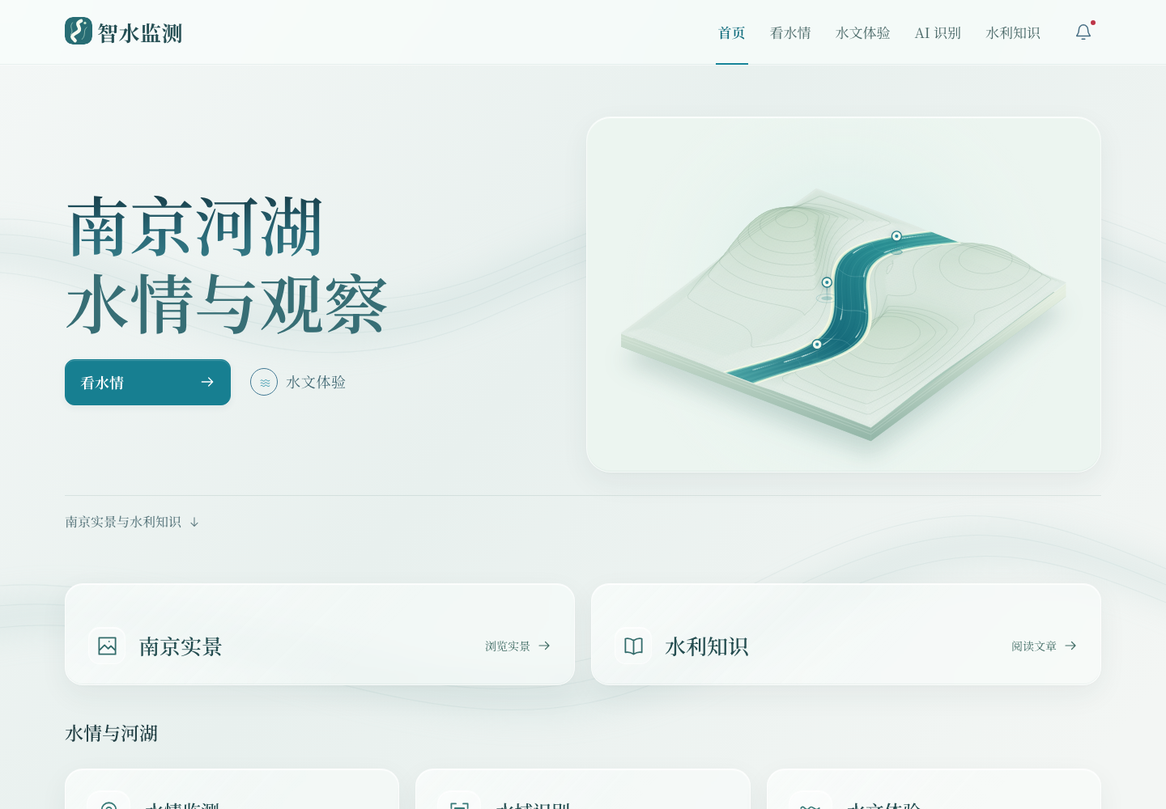
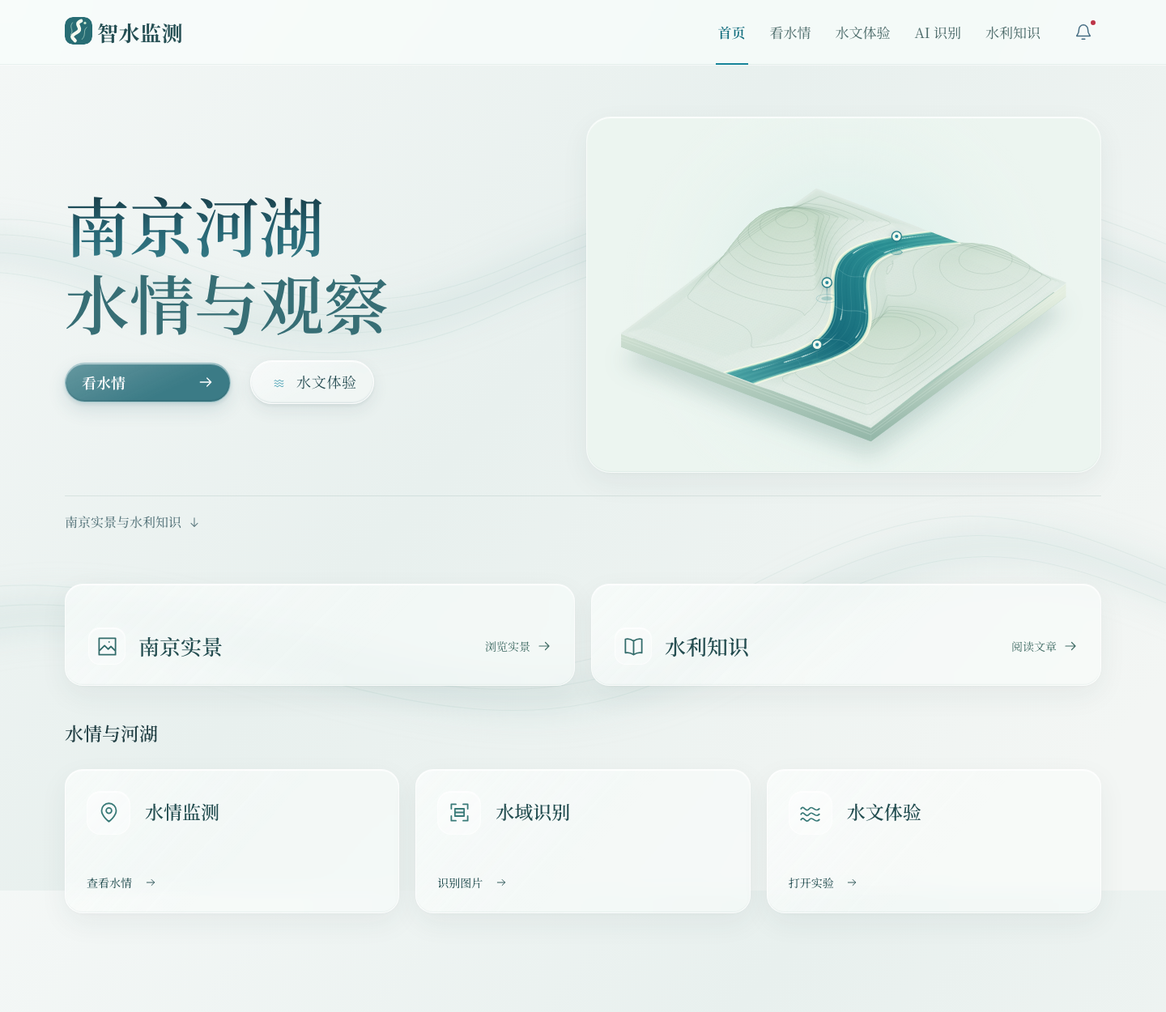
Add optical glass buttons and native slider feedback

diff --git a/dist/assets/liquid-controls.css b/dist/assets/liquid-controls.css
@@ -1,0 +1,83 @@
+/* Small optical surfaces: native input, clear foreground, refracted background. */
+:root{--control-glass:rgb(255 255 255 / 34%);--control-shadow:0 8px 20px #254b4c16,0 2px 4px #254b4c14,inset 0 1px 1px #fffffff0,inset 0 -1px 2px #456e7126;--control-filter:blur(3px) saturate(125%)}
+:root [data-glass-control][data-glass-control]{
+ isolation:isolate;border:1px solid #ffffffc7;border-radius:999px;
+ background:linear-gradient(155deg,#ffffff75,transparent 56%),var(--control-glass);color:#294f55;
+ box-shadow:var(--control-shadow);-webkit-backdrop-filter:var(--liquid-lens-filter,var(--control-filter));backdrop-filter:var(--liquid-lens-filter,var(--control-filter));
+ font-family:var(--font);touch-action:manipulation;transition:transform 160ms var(--ease-out);
+}
+[data-glass-position="relative"]{position:relative}
+:root [data-glass-control]:is(.btn,.hero-secondary){min-height:44px;padding:10px 20px}
+:root [data-glass-control].hero-secondary{gap:9px}.hero-secondary[data-glass-control] .play-orbit{width:27px;height:27px;border:0;background:transparent}
+:root [data-glass-control]:is(.primary,.playback-button),:root .detail-card-footer .btn[data-glass-control]{
+ background:linear-gradient(155deg,#ffffff36,transparent 65%),rgb(30 104 117 / 86%);color:#fff;border-color:#f0ffff80;
+ box-shadow:0 9px 22px #21586725,0 2px 5px #21586720,inset 0 1px 1px #ffffffa8,inset 0 -1px 2px #14363d47;
+}
+.btn.primary.hero-primary[data-glass-control]{background:linear-gradient(155deg,#ffffff36,transparent 65%),rgb(30 104 117 / 86%)!important;border-color:#f0ffff80!important;color:#fff!important}
+:root .rain-presets [data-glass-control]{font-size:18px;min-height:48px;padding:10px 12px;gap:6px}
+:root :is(.rain-presets,.lab-rain-presets,.monitor-record-filters,.vision-view-switch,.atlas-controls) [data-glass-control][aria-pressed="true"],
+:root [data-glass-control][aria-selected="true"],:root .segmented [data-glass-control].active,:root .filter-tabs [data-glass-control].active{
+ background:linear-gradient(155deg,#ffffffa6,transparent 70%),#d4e9e4a6;border-color:#7bafa9b3;color:#225e63;
+ box-shadow:0 5px 12px #2c5d5a17,inset 0 1px 1px #fff,inset 0 -2px 2px #327e7b20;
+}
+:root .monitor-tool-tabs [data-glass-control]{border-radius:999px}
+:root [data-glass-control].btn.text{box-shadow:inset 0 1px 1px #ffffffad,0 2px 6px #254b4c0a;background:#ffffff26}
+/* The colour fringe stays at the edge; the label never passes through a filter. */
+[data-glass-control]::before{content:'';position:absolute;inset:0;border-radius:inherit;z-index:-1;pointer-events:none;background:radial-gradient(ellipse at var(--press-x,35%) var(--press-y,20%),#ffffffad,transparent 64%);opacity:0;transition:opacity 160ms var(--ease-out)}
+[data-glass-control]::after,[data-glass-thumb]::before{
+ content:'';position:absolute;inset:-1px;padding:2px;border-radius:inherit;pointer-events:none;
+ background:conic-gradient(from 25deg at var(--press-x,50%) 50%,#8adcf5,#b1c2ff 18%,#e6b7d6 34%,#f5daaf 49%,#c2eee2 67%,#7ecde7 83%,#8adcf5);
+ -webkit-mask:linear-gradient(#fff 0 0) content-box,linear-gradient(#fff 0 0);-webkit-mask-composite:xor;mask:linear-gradient(#fff 0 0) content-box,linear-gradient(#fff 0 0);mask-composite:exclude;
+ opacity:0;transition:opacity 160ms var(--ease-out);
+}
+:root [data-glass-control][data-glass-pressed]{transform:scale(.97);box-shadow:0 3px 9px #254b4c23,inset 0 1px 2px #fff,inset 0 -2px 5px #346f7b35}
+[data-glass-control][data-glass-pressed]::before{opacity:.7}
+[data-glass-pressed]::after,[data-glass-thumb][data-glass-pressed]::before{opacity:.85}
+:root [data-glass-control][data-glass-keyboard]{transform:none;transition:none}
+:root [data-glass-control]:focus-visible{outline:2px solid #277a8d;outline-offset:4px}
+:root [data-glass-control]:disabled,:root [data-glass-control][aria-disabled="true"]{opacity:.45;cursor:default;transform:none;box-shadow:inset 0 1px 0 #fff8;-webkit-backdrop-filter:none;backdrop-filter:none}
+@media(hover:hover) and (pointer:fine){:root [data-glass-control]:not(:disabled):not([aria-disabled="true"]):not([data-glass-pressed]):hover{box-shadow:0 10px 24px #254b4c22,0 2px 5px #254b4c18,inset 0 1px 1px #fff,inset 0 -1px 2px #456e7126}}
+/* A native range is the hit target and keyboard control; its optical thumb is decorative. */
+.liquid-range{display:block;position:relative;isolation:isolate;min-width:0;height:48px;margin:8px 0 2px}
+.liquid-range>input[type="range"]{position:absolute;z-index:2;inset:0;display:block;width:100%!important;height:48px!important;min-height:48px!important;margin:0!important;padding:0!important;border:0;border-radius:24px;background:transparent;-webkit-appearance:none;appearance:none;cursor:grab;touch-action:pan-y;box-shadow:none}
+.liquid-range>input[type="range"]::-webkit-slider-runnable-track{height:8px;background:transparent;border:0}
+.liquid-range>input[type="range"]::-webkit-slider-thumb{-webkit-appearance:none;appearance:none;width:40px;height:30px;margin-top:-11px;border:0;background:transparent;box-shadow:none;opacity:0}
+.liquid-range>input[type="range"]::-moz-range-track{height:8px;background:transparent;border:0}
+.liquid-range>input[type="range"]::-moz-range-progress{background:transparent}
+.liquid-range>input[type="range"]::-moz-range-thumb{width:40px;height:30px;border:0;background:transparent;box-shadow:none;opacity:0}
+.liquid-range-rail{position:absolute;left:20px;right:20px;top:50%;height:8px;transform:translateY(-50%);border:1px solid #7f9f9e30;border-radius:999px;background:#628e8e20;box-shadow:inset 0 1px 3px #254b4c1c,0 1px 0 #ffffffbd;pointer-events:none}
+.liquid-range-fill{position:absolute;inset:-1px;border-radius:inherit;background:linear-gradient(90deg,#367d8b,#6dacae);transform:scaleX(var(--range-ratio,0));transform-origin:left center;box-shadow:inset 0 1px 1px #ffffff66}
+.liquid-range-thumb{position:absolute;top:50%;left:var(--range-progress,0%);width:40px;height:30px;transform:translate(-50%,-50%);border-radius:999px}
+.liquid-range-thumb,.gate-slider-thumb[data-glass-thumb]{border:1px solid #ffffffe6;background:linear-gradient(145deg,#ffffff94,#ffffff24 55%,#a5d9dc24);box-shadow:0 6px 14px #2c4b572e,0 2px 4px #2c4b5726,inset 0 1px 1px #fff,inset 0 -1px 2px #275f6b30;-webkit-backdrop-filter:var(--liquid-lens-filter,var(--control-filter));backdrop-filter:var(--liquid-lens-filter,var(--control-filter));transition:transform 160ms var(--ease-out)}
+.liquid-range-thumb::after{content:'';position:absolute;left:25%;right:25%;top:6px;height:1px;background:#ffffffdf;box-shadow:0 14px 0 #4a8f9c26;pointer-events:none}
+.gate-slider-rail{height:8px;border:1px solid #7f9f9e30;background:#628e8e20;box-shadow:inset 0 1px 3px #254b4c1c,0 1px 0 #ffffffbd}
+.gate-slider-fill{background:linear-gradient(90deg,#367d8b,#6dacae);box-shadow:inset 0 1px 1px #ffffff66}
+.gate-slider-thumb[data-glass-thumb]{width:52px;height:42px;border-radius:999px}
+.gate-slider-thumb[data-glass-thumb]::after{height:17px;width:3px;background:#356b756b}
+[data-glass-range][data-glass-dragging] [data-glass-thumb]{transform:translate(-50%,-50%) scale(1.08);box-shadow:0 9px 20px #2c4b573b,0 2px 5px #2c4b5726,inset 0 1px 2px #fff,inset 0 -1px 3px #6ba9bb59}
+#sandbox-gate:active+.gate-slider-rail .gate-slider-thumb[data-glass-thumb]{transform:translate(-50%,-50%) scale(1.08)}
+.liquid-range>input[type="range"]:focus-visible{outline:2px solid #277a8d;outline-offset:2px}
+.liquid-range>input[type="range"]:active{cursor:grabbing}
+[data-glass-range][data-glass-disabled]{opacity:.42}
+[data-glass-range][data-glass-disabled] input{cursor:default}
+@media(max-width:560px){.monitor-console .rain-presets{grid-template-columns:repeat(2,minmax(0,1fr));gap:10px}.monitor-console .rain-presets .rain-preset-unit{font-size:12px}}
+@media(prefers-reduced-motion:reduce){:root [data-glass-control],.liquid-range-thumb,.gate-slider-thumb[data-glass-thumb]{transition:none}:root [data-glass-control][data-glass-pressed]{transform:none}[data-glass-range][data-glass-dragging] [data-glass-thumb],#sandbox-gate:active+.gate-slider-rail .gate-slider-thumb[data-glass-thumb]{transform:translate(-50%,-50%)}[data-glass-control]::before,[data-glass-control]::after,[data-glass-thumb]::before{transition:none}}
+@media(prefers-reduced-transparency:reduce),(prefers-contrast:more){
+ :root [data-glass-control][data-glass-control],.liquid-range-thumb,.gate-slider-thumb[data-glass-thumb]{background:#f5f8f7;border-color:#72938e;-webkit-backdrop-filter:none!important;backdrop-filter:none!important}
+ :root [data-glass-control]:is(.primary,.playback-button),.btn.primary.hero-primary[data-glass-control]{background:#286f76!important;color:#fff}
+ [data-glass-control]::before,[data-glass-control]::after,[data-glass-thumb]::before{display:none}
+}
+:is([data-glass-effects="off"],[data-glass-solid]) :is([data-glass-control],[data-glass-thumb]){-webkit-backdrop-filter:none!important;backdrop-filter:none!important;background-color:#f5f8f7}
+:is([data-glass-effects="off"],[data-glass-solid]) [data-glass-control]:is(.primary,.playback-button),:is([data-glass-effects="off"],[data-glass-solid]) .btn.primary.hero-primary[data-glass-control]{background:#286f76!important;color:#fff}
+:is([data-glass-effects="off"],[data-glass-solid]) :is([data-glass-control],[data-glass-thumb])::before,:is([data-glass-effects="off"],[data-glass-solid]) [data-glass-control]::after{display:none}
+@supports not ((backdrop-filter:blur(1px)) or (-webkit-backdrop-filter:blur(1px))){:root{--control-glass:#f5f8f7}.liquid-range-thumb,.gate-slider-thumb[data-glass-thumb]{background:#f5f8f7}[data-glass-control]::before,[data-glass-control]::after,[data-glass-thumb]::before{display:none}}
+@media(forced-colors:active){
+ :root [data-glass-control][data-glass-control]{background:ButtonFace!important;border-color:ButtonText!important;color:ButtonText!important;box-shadow:none!important;-webkit-backdrop-filter:none!important;backdrop-filter:none!important}
+ :root [data-glass-control][aria-pressed="true"],:root [data-glass-control][aria-selected="true"]{border-color:Highlight!important;outline:1px solid Highlight}
+ [data-glass-control]::before,[data-glass-control]::after,[data-glass-thumb]::before,.liquid-range-rail{display:none}
+ .liquid-range>input[type="range"]{-webkit-appearance:auto;appearance:auto;accent-color:Highlight}
+ .liquid-range>input[type="range"]::-webkit-slider-thumb{-webkit-appearance:auto;appearance:auto;opacity:1;background:ButtonText}
+ .liquid-range>input[type="range"]::-moz-range-thumb{opacity:1;background:ButtonText}
+ .liquid-range>input[type="range"]::-webkit-slider-runnable-track{background:CanvasText}
+ .liquid-range>input[type="range"]::-moz-range-track{background:CanvasText}
+}

diff --git a/dist/assets/liquid-glass.js b/dist/assets/liquid-glass.js
@@ -1,8 +1,8 @@
-/* Edge refraction for Chromium entry cards. Other engines keep the CSS glass material.
+/* Edge refraction for Chromium surfaces. Other engines keep the CSS glass material.
    The map encodes only a narrow rim; it never captures or filters foreground text. */
 (() => {
  'use strict';
- const root=document.documentElement,selector='.home-discovery-card,.home-task-grid>a,.monitor-analysis-link';
+ const root=document.documentElement,selector='.home-discovery-card,.home-task-grid>a,.monitor-analysis-link,[data-glass-control],[data-glass-thumb]';
  const reduce=matchMedia('(prefers-reduced-transparency: reduce)'),contrast=matchMedia('(prefers-contrast: more)'),forced=matchMedia('(forced-colors: active)');
  const capable=/Chrome|Chromium|Edg\//.test(navigator.userAgent)&&CSS.supports('backdrop-filter','url("#glass-probe")');
  const ns='http://www.w3.org/2000/svg',entries=new Map();let serial=0,frame=0,defs,svg;
@@ -19,29 +19,49 @@
   }
   context.putImageData(pixels,0,0);return canvas.toDataURL('image/png');
  }
+ function press(node,on){
+  const entry=entries.get(node);if(!entry?.channels)return;
+  entry.channels.forEach((channel,index)=>channel.setAttribute('scale',on?[20,12,5][index]:8));
+ }
  function build(node){
-  if(!enabled()||!node.isConnected)return;const rect=node.getBoundingClientRect();if(rect.width<24||rect.height<24)return;
+  if(!enabled()||!node.isConnected)return;if(node.matches(':disabled,[aria-disabled="true"]')){clear(node);return}
+  const rect={width:node.offsetWidth,height:node.offsetHeight};if(rect.width<24||rect.height<24)return;
+  const optical=node.matches('[data-glass-control],[data-glass-thumb]');
   let entry=entries.get(node);const key=Math.round(rect.width)+'x'+Math.round(rect.height)+'r'+getComputedStyle(node).borderTopLeftRadius;if(entry?.key===key)return;
   if(!entry){
    const id='liquid-rim-'+(++serial),filter=create('filter',{id,x:0,y:0,filterUnits:'userSpaceOnUse',primitiveUnits:'userSpaceOnUse','color-interpolation-filters':'sRGB'}),map=create('feImage',{x:0,y:0,width:'100%',height:'100%',preserveAspectRatio:'none',result:'rim'});
-   filter.append(map,create('feDisplacementMap',{in:'SourceGraphic',in2:'rim',scale:18,xChannelSelector:'R',yChannelSelector:'G'}));defs.append(filter);entry={filter,map,id,key:''};entries.set(node,entry);
+   filter.append(map);const channels=[];
+   if(optical){
+    for(let channel=0;channel<3;channel++){
+     const displacement=create('feDisplacementMap',{in:'SourceGraphic',in2:'rim',scale:8,xChannelSelector:'R',yChannelSelector:'G',result:'displaced-'+channel});
+     // Combine unpremultiplied channels, then restore the original backdrop alpha.
+     // Screening three translucent masks directly would thicken the alpha and grey the glass.
+     const matrix=Array(20).fill(0);matrix[channel*5+channel]=1;matrix[19]=1;
+     filter.append(displacement,create('feColorMatrix',{in:'displaced-'+channel,type:'matrix',values:matrix.join(' '),result:'channel-'+channel}));channels.push(displacement);
+    }
+    filter.append(create('feBlend',{in:'channel-0',in2:'channel-1',mode:'screen',result:'red-green'}),create('feBlend',{in:'red-green',in2:'channel-2',mode:'screen',result:'combined-rgb'}),create('feComposite',{in:'combined-rgb',in2:'SourceGraphic',operator:'in'}));
+   }else filter.append(create('feDisplacementMap',{in:'SourceGraphic',in2:'rim',scale:18,xChannelSelector:'R',yChannelSelector:'G'}));
+   defs.append(filter);entry={filter,map,id,key:'',channels:optical?channels:null};entries.set(node,entry);
   }
-  try{entry.filter.setAttribute('width',rect.width);entry.filter.setAttribute('height',rect.height);entry.map.setAttribute('width',rect.width);entry.map.setAttribute('height',rect.height);entry.map.setAttribute('href',mapData(rect.width,rect.height,parseFloat(getComputedStyle(node).borderTopLeftRadius)||22));entry.key=key;node.dataset.liquidLens='';node.style.setProperty('--liquid-lens-filter',`blur(12px) saturate(112%) url("#${entry.id}")`)}catch{clear(node)}
+  try{entry.filter.setAttribute('width',rect.width);entry.filter.setAttribute('height',rect.height);entry.map.setAttribute('width',rect.width);entry.map.setAttribute('height',rect.height);entry.map.setAttribute('href',mapData(rect.width,rect.height,parseFloat(getComputedStyle(node).borderTopLeftRadius)||22));entry.key=key;node.dataset.liquidLens='';node.style.setProperty('--liquid-lens-filter',`${optical?'blur(3px) saturate(125%)':'blur(12px) saturate(112%)'} url("#${entry.id}")`);press(node,node.hasAttribute('data-glass-pressed'))}catch{clear(node)}
  }
  function clear(node){const entry=entries.get(node);entry?.filter.remove();entries.delete(node);node.removeAttribute('data-liquid-lens');node.style.removeProperty('--liquid-lens-filter')}
- const resize=new ResizeObserver(records=>{for(const record of records)if(entries.has(record.target))build(record.target)});
- const visibility=new IntersectionObserver(records=>{for(const record of records)if(record.isIntersecting)build(record.target);else clear(record.target)},{rootMargin:'100px'});
+ const visible=new WeakSet();
+ const resize=new ResizeObserver(records=>{for(const record of records)if(visible.has(record.target))build(record.target)});
+ const visibility=new IntersectionObserver(records=>{for(const record of records)if(record.isIntersecting){visible.add(record.target);build(record.target)}else{visible.delete(record.target);clear(record.target)}},{rootMargin:'100px'});
  let watched=new Set();
  function scan(){
   frame=0;root.toggleAttribute('data-glass-solid',reduce.matches||contrast.matches||forced.matches);const on=enabled();root.dataset.glassRenderer=on?'svg-rim':'css';
   for(const node of watched)if(!on||!node.isConnected){clear(node);resize.unobserve(node);visibility.unobserve(node);watched.delete(node)}
   if(!on)return;
   for(const node of document.querySelectorAll(selector))if(!watched.has(node)){watched.add(node);resize.observe(node);visibility.observe(node)}
+  for(const node of watched)if(visible.has(node))build(node);
  }
  function schedule(){if(!frame)frame=requestAnimationFrame(scan)}
  function start(){
   svg=create('svg',{'aria-hidden':'true',width:0,height:0,focusable:'false'});svg.style.cssText='position:fixed;width:0;height:0;pointer-events:none';defs=create('defs',{});svg.append(defs);document.body.append(svg);
-  new MutationObserver(records=>{if(records.some(record=>[...record.addedNodes].some(node=>node.nodeType===1&&(node.matches?.(selector)||node.querySelector?.(selector)))||[...record.removedNodes].some(node=>node.nodeType===1)))schedule()}).observe(document.querySelector('#main'),{childList:true,subtree:true});
+  new MutationObserver(records=>{if(records.some(record=>!record.target.closest?.('svg')&&(record.type==='attributes'||[...record.addedNodes].some(node=>node.nodeType===1&&(node.matches?.(selector)||node.querySelector?.(selector)))||[...record.removedNodes].some(node=>node.nodeType===1))))schedule()}).observe(document.body,{childList:true,subtree:true,attributes:true,attributeFilter:['data-glass-control','data-glass-thumb','disabled','aria-disabled']});
+  document.addEventListener('zhishui:glasspress',event=>press(event.detail.node,event.detail.pressed));
   new MutationObserver(schedule).observe(root,{attributes:true,attributeFilter:['data-glass-effects']});
   for(const media of [reduce,contrast,forced])media.addEventListener('change',schedule);
   document.addEventListener('visibilitychange',()=>{if(document.hidden){for(const node of entries.keys())clear(node)}else{schedule();for(const node of watched){visibility.unobserve(node);visibility.observe(node)}}});

diff --git a/dist/assets/liquid-controls.js b/dist/assets/liquid-controls.js
@@ -1,0 +1,82 @@
+/* Keep native controls in charge of input. This layer only paints material and feedback. */
+(() => {
+ 'use strict';
+ const root=document.documentElement;
+ const controls='.btn,.hero-secondary,.playback-button,.detail-card-trigger,.detail-card-close,#dialog-close,.rain-presets button,.lab-rain-presets button,.monitor-tool-tabs button,.segmented button,.filter-tabs button,.lab-tabs button,.monitor-record-filters button,.vision-view-switch button,[data-map-mode],.atlas-reset,#ai-cancel,#ai-show-results';
+ const ranges=new Map();let frame=0,pressed=null;
+ const blocked=node=>node.matches(':disabled,[aria-disabled="true"]')||!!node.closest('[inert]');
+ function signal(node,on){
+  if(!node)return;
+  node.toggleAttribute('data-glass-pressed',on);
+  document.dispatchEvent(new CustomEvent('zhishui:glasspress',{detail:{node,pressed:on}}));
+ }
+ function release(){
+  if(!pressed)return;
+  signal(pressed.surface,false);pressed.shell?.removeAttribute('data-glass-dragging');pressed.surface.removeAttribute('data-glass-keyboard');pressed=null;
+ }
+ function rangeSetup(input){
+  let entry=ranges.get(input);if(entry)return entry;
+  let shell,thumb;
+  if(input.id==='sandbox-gate'){
+   shell=input.closest('.gate-slider');thumb=shell?.querySelector('.gate-slider-thumb');
+   if(!shell||!thumb)return;
+  }else{
+   shell=document.createElement('span');shell.className='liquid-range';
+   const rail=document.createElement('span');rail.className='liquid-range-rail';rail.setAttribute('aria-hidden','true');
+   const fill=document.createElement('span');fill.className='liquid-range-fill';thumb=document.createElement('span');thumb.className='liquid-range-thumb';
+   rail.append(fill,thumb);input.before(shell);shell.append(input,rail);
+  }
+  shell.dataset.glassRange='';thumb.dataset.glassThumb='';input.dataset.glassInput='';
+  entry={shell,thumb};ranges.set(input,entry);return entry;
+ }
+ function sync(input,entry){
+  const min=Number(input.min||0),max=Number(input.max||100),value=Number(input.value),ratio=max>min?Math.max(0,Math.min(1,(value-min)/(max-min))):0;
+  entry.shell.style.setProperty('--range-progress',(ratio*100)+'%');
+  entry.shell.style.setProperty('--range-ratio',String(ratio));
+  entry.shell.toggleAttribute('data-glass-disabled',input.matches(':disabled'));
+ }
+ function scan(){
+  frame=0;
+  for(const [input]of ranges)if(!input.isConnected)ranges.delete(input);
+  if(pressed&&!pressed.surface.isConnected)release();
+  for(const node of document.querySelectorAll(controls))if(!node.hasAttribute('data-glass-control')){
+   if(getComputedStyle(node).position==='static')node.dataset.glassPosition='relative';
+   node.dataset.glassControl='';
+  }
+  for(const input of document.querySelectorAll('input[type="range"]')){
+   const entry=rangeSetup(input);if(entry)sync(input,entry);
+  }
+ }
+ function schedule(){if(!frame)frame=requestAnimationFrame(scan)}
+ function begin(node,event,keyboard=false){
+  if(blocked(node))return;
+  const entry=ranges.get(node),surface=entry?.thumb||node;release();
+  if(!keyboard&&event){const rect=surface.getBoundingClientRect();surface.style.setProperty('--press-x',Math.max(0,Math.min(100,(event.clientX-rect.left)/rect.width*100))+'%');surface.style.setProperty('--press-y',Math.max(0,Math.min(100,(event.clientY-rect.top)/rect.height*100))+'%')}
+  if(keyboard)surface.dataset.glassKeyboard='';
+  entry?.shell.setAttribute('data-glass-dragging','');pressed={surface,shell:entry?.shell,pointerId:event?.pointerId};signal(surface,true);
+ }
+ function start(){
+  scan();
+  new MutationObserver(records=>{
+   if(records.some(record=>!record.target.closest?.('svg')&&(record.type==='childList'||record.type==='attributes')))schedule();
+  }).observe(document.body,{subtree:true,childList:true,attributes:true,attributeFilter:['disabled','min','max','step','value']});
+  document.addEventListener('input',event=>{if(ranges.has(event.target))for(const [input,entry]of ranges)sync(input,entry)});
+  document.addEventListener('pointerdown',event=>{
+   if(event.button!==0)return;
+   const node=event.target.closest('[data-glass-control],input[data-glass-input]');if(node)begin(node,event);
+  },true);
+  window.addEventListener('pointerup',release,true);window.addEventListener('pointercancel',release,true);
+  document.addEventListener('lostpointercapture',release,true);
+  document.addEventListener('pointerout',event=>{if(pressed&&(!event.relatedTarget||!pressed.shell&&event.target.closest('[data-glass-control]')===pressed.surface&&!pressed.surface.contains(event.relatedTarget)))release()});
+  document.addEventListener('keydown',event=>{
+   if(event.repeat||!['Enter',' '].includes(event.key))return;
+   const node=event.target.closest('[data-glass-control]');if(node)begin(node,null,true);
+  });
+  document.addEventListener('keyup',event=>{if(['Enter',' '].includes(event.key))release()});
+  document.addEventListener('focusout',event=>{if(pressed?.surface===event.target)release()});
+  window.addEventListener('blur',release);document.addEventListener('visibilitychange',()=>{if(document.hidden)release()});
+  window.addEventListener('pagehide',()=>{release();if(frame)cancelAnimationFrame(frame);frame=0});
+  window.addEventListener('pageshow',event=>{if(event.persisted)schedule()});
+ }
+ if(document.readyState==='loading')document.addEventListener('DOMContentLoaded',start,{once:true});else start();
+})();

diff --git a/dist/index.html b/dist/index.html
@@ -39,7 +39,9 @@
 <link rel="stylesheet" href="assets/knowledge-index.css?v=5.13.2-reading-index-v42">
 <link rel="stylesheet" href="assets/task-flow.css?v=5.14.1-ai-rain">
 <link rel="stylesheet" href="assets/liquid-glass.css?v=5.14.2-songti-v46">
-<script src="assets/liquid-glass.js?v=5.14.0-liquid-glass" defer></script>
+<link rel="stylesheet" href="assets/liquid-controls.css?v=5.14.3-optical-controls">
+<script src="assets/liquid-glass.js?v=5.14.3-optical-controls" defer></script>
+<script src="assets/liquid-controls.js?v=5.14.3-optical-controls" defer></script>
 </head>
 <body class="opening-active">
 

diff --git a/README.md b/README.md
@@ -1,10 +1,12 @@
 # 智水未来 · 智水监测（独立新站）
 
+5.14.3：按钮、分段选择、雨强预设及原生滑条统一为圆润玻璃控件。使用方向高光、接触与环境阴影；按压立即响应，Chromium以独立RGB背景位移产生边缘色散，WebKit/Firefox使用磨砂与彩色高光回退。滑块随原生输入连续移动，拖动轻微浮起；保留宋体、键盘、焦点、禁用状态及减少动态/透明和高对比回退。手机雨强按钮双列。
+
 5.14.2：液态玻璃版电脑与手机均恢复自托管宋体。首页“南京实景 / 水利知识”移除共用照片底纹与浑浊色块，改为清透紧凑入口；电脑双列，560px及以下单列，整卡点击和历史/文章弹层保持正常。仅更新codex/liquid-glass及独立站 https://apsonchian.ltd/zhishui-glass/ 。
 
 5.14.1功能修复已包含在独立液态玻璃站点：https://apsonchian.ltd/zhishui-glass/ 。AI切换到已验证的兼容视觉接口，换图/取消/超时后可重新识别，图片读取10秒、整个流程45秒。降雨推演直接标明横纵轴、单位和图例，提供观察地点选择；修改雨强保留时间与闸门，停雨保留当前播放/暂停状态。主站 https://apsonchian.ltd/zhishui/ 同步功能修复并保留原视觉。
 
-## 液态玻璃视觉分支（5.14.2）
+## 液态玻璃视觉分支（5.14.3）
 
 当前分支：`codex/liquid-glass`，独立发布至 https://apsonchian.ltd/zhishui-glass/ 。`main`保留原视觉并同步功能修复；旧版本36137a8仍保存在仓库历史中。
 
@@ -13,6 +15,12 @@
 移除首页重复线稿、彩色封面和分色卡片；标题改为“南京河湖 / 水情与观察”，统一使用自托管宋体（电脑与手机）。指定的开场引导语、真实照片、AI分析和教学模型保持原有内容。无新增运行依赖或常驻动画。
 
 ![液态玻璃分支预览](docs/liquid-glass-preview.png)
+
+控件预览（按压状态）：
+
+![玻璃按钮与滑条](docs/liquid-controls-preview.png)
+
+可选控件回归：`npm run check:controls`，支持`GLASS_BROWSER=webkit`或`firefox`。
 
 本地运行：`npm run dev`，打开 `http://127.0.0.1:5188/`。关闭材质的回退可由系统减少透明/提高对比度偏好触发，或设置根节点 `data-glass-effects="off"`。本机浏览器与移动视口验证记录见 `qa/VERIFICATION.md`。可选像素回归：启动预览后运行 `npm run check:glass`（需Playwright及其Chromium浏览器）。
 

diff --git a/qa/VERIFICATION.md b/qa/VERIFICATION.md
@@ -1,3 +1,15 @@
+# 玻璃按钮与滑条 · 5.14.3
+
+5.14.3：按钮、分段选择、雨强预设及原生滑条统一为圆润玻璃控件。使用方向高光、接触与环境阴影；按压立即响应，Chromium以独立RGB背景位移产生边缘色散，WebKit/Firefox使用磨砂与彩色高光回退。滑块随原生输入连续移动，拖动轻微浮起；保留宋体、键盘、焦点、禁用状态及减少动态/透明和高对比回退。手机雨强按钮双列。
+
+新增可选浏览器回归scripts/check-liquid-controls.mjs；scripts/check-liquid-glass.mjs增加关闭CSS彩色装饰后的真实RGB色散像素检查，以及半透明背景的alpha保真检查。无常驻动画或全屏截图采样；移出窗口、触控取消、失焦、换页与后台均清理按压状态。
+
+npm run check通过。Chromium/WebKit/Firefox在1440/390/320px通过原生拖动、键盘、自动播放同步、换页后重新增强、取消按压、减少动态、关闭材质和强制颜色检查；无溢出或页面错误。Chromium触屏事件通过三个滑条的连续水平拖动和touchcancel。折射像素夹具关闭CSS彩边后，1000个边缘采样像素中按压前0个、按压后556个发生RGB色散；中心位移差0，半透明背景alpha合成差0。截图docs/liquid-controls-preview.png为实际按压状态，docs/liquid-glass-preview.png为新版首页。
+
+已发布20261103-optical-controls-v47。安装器177文件、Nginx及既有站点健康核验通过；正式HTTPS逐项177文件与本地一致，网络重试0次，规范跳转与缺失资源404正常。Chromium在正式站1440/390/320px通过原生拖动、键盘、播放同步、换页、取消按压与回退检查，无横向溢出或页面脚本错误。
+
+---
+
 # 宋体与清透入口 · 5.14.2
 
 移除宋体样式表的桌面限定，玻璃主题字体栈使用Zhishui Songti及系统宋体回退。正文、导航、标题、按钮和弹层沿用共享字体；读数保留原有数字字体。入口移除共用照片伪元素，采用与页面一致的玻璃底，桌面紧凑双列，560px及以下单列。

diff --git a/DEMO.md b/DEMO.md
@@ -1,4 +1,6 @@
-## 液态玻璃视觉分支（5.14.2）
+## 液态玻璃视觉分支（5.14.3）
+
+5.14.3：按钮、分段选择、雨强预设及原生滑条统一为圆润玻璃控件。使用方向高光、接触与环境阴影；按压立即响应，Chromium以独立RGB背景位移产生边缘色散，WebKit/Firefox使用磨砂与彩色高光回退。滑块随原生输入连续移动，拖动轻微浮起；保留宋体、键盘、焦点、禁用状态及减少动态/透明和高对比回退。手机雨强按钮双列。
 
 5.14.2：液态玻璃版电脑与手机均恢复自托管宋体。首页“南京实景 / 水利知识”移除共用照片底纹与浑浊色块，改为清透紧凑入口；电脑双列，560px及以下单列，整卡点击和历史/文章弹层保持正常。仅更新codex/liquid-glass及独立站 https://apsonchian.ltd/zhishui-glass/ 。
 
@@ -9,6 +11,12 @@
 首页、知识列表、水情与实验面板、图片识别区及弹层共用透明卡片材质，使用真实背景模糊、柔和边缘高光与较轻的环境阴影。少量入口卡片在已验证的 Chromium 环境中增加 SVG 背景边缘位移；WebKit、Firefox 使用 CSS 模糊玻璃回退。读数和正文不经过滤镜，密集内容使用更稳定的底色。
 
 移除首页重复线稿、彩色封面和分色卡片；标题改为“南京河湖 / 水情与观察”，统一使用自托管宋体（电脑与手机）。指定的开场引导语、真实照片、AI分析和教学模型保持原有内容。无新增依赖或常驻动画。
+
+控件预览（按压状态）：
+
+![玻璃按钮与滑条](docs/liquid-controls-preview.png)
+
+可选控件回归：`npm run check:controls`，支持`GLASS_BROWSER=webkit`或`firefox`。
 
 本地运行：`npm run dev`，打开 `http://127.0.0.1:5188/`。关闭材质的回退可由系统减少透明/提高对比度偏好触发，或设置根节点 `data-glass-effects="off"`。本机浏览器与移动视口验证记录见 `qa/VERIFICATION.md`。
 

diff --git a/SERVER_DEPLOYMENT.md b/SERVER_DEPLOYMENT.md
@@ -1,3 +1,18 @@
+# 当前分支站 · 玻璃按钮与滑条（5.14.3）
+
+- 日期：2026-11-03，Asia/Shanghai。
+- 地址：https://apsonchian.ltd/zhishui-glass/ ，分支codex/liquid-glass。
+- 发布：20261103-optical-controls-v47；前版20261103-songti-entrances-v46。
+- 发布包SHA-256：7a17583c96badaf795a3e9cf95f4f3d4876d2ba5733f9d216d69f4b835bc0750；运行文件177个。
+- 目录：/var/www/zhishui-glass/releases/20261103-optical-controls-v47；备份：/var/backups/zhishui-glass/20261103-optical-controls-v47。
+
+新增liquid-controls.css/js，共用按钮、分段选择、雨强预设和原生滑条的玻璃材质与立即按压反馈。Chromium使用实际背景RGB通道边缘位移，保留半透明alpha；其他引擎采用CSS磨砂和彩色高光回退。阴影、高光、圆润轮廓和手机双列预设统一。滑条保持原生输入、键盘、焦点、禁用、触屏与连续回放同步；减少动态、透明、高对比及关闭材质的回退保留。此轮不更改网关、AI接口、水文模型或main分支。
+
+本机功能与三浏览器、触屏和像素验收通过，详见qa/VERIFICATION.md。已发布20261103-optical-controls-v47。安装器177文件、Nginx及既有站点健康核验通过；正式HTTPS逐项177文件与本地一致，网络重试0次，规范跳转与缺失资源404正常。Chromium在正式站1440/390/320px通过原生拖动、键盘、播放同步、换页、取消按压与回退检查，无横向溢出或页面脚本错误。
+
+---
+历史发布记录：
+
 # 当前分支站 · 宋体与清透入口（5.14.2）
 
 - 日期：2026-11-03，Asia/Shanghai。

diff --git a/SOURCES.md b/SOURCES.md
@@ -1,5 +1,7 @@
 # 真实资料与教学边界
 
+5.14.3：控件材质与按压色散使用项目自编CSS、Canvas位移图和SVG滤镜；没有引入Apple资源、外部截图服务或新依赖。滤镜只处理真实背景，文字保持独立绘制；非Chromium引擎使用CSS材质回退。
+
 5.14.2：入口不再使用照片作为玻璃背后的底纹；原有照片继续用于实景图库与识别例图，署名和许可入口保留。宋体使用项目原有自托管Noto Serif SC分包字体（Zhishui Songti），许可沿用既有OFL文件。
 
 5.13.3/5.14.1：云端识别使用同一已配置服务的兼容聊天接口及dots_webdev_1022模型，经真实水下例图验证；图像最长边缩至960px，结果仍为模型观察与估计框选。读取限时10秒、整个流程45秒，服务连接35秒。新凭据仅保存在服务器私有环境配置。降雨模型与阈值未改变，只补充轴名称/刻度/图例，并让雨强编辑保留已发生的时间和其他操作。
